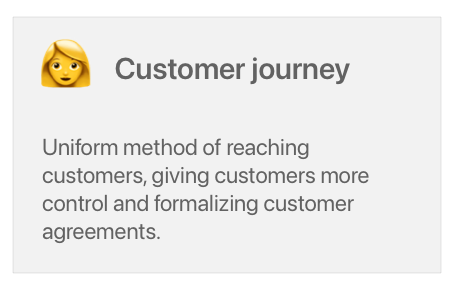
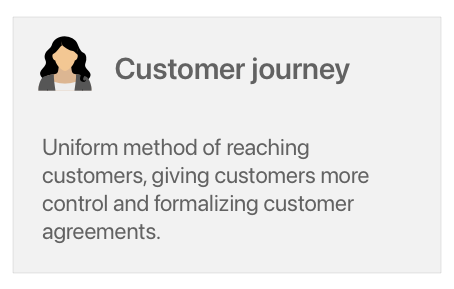
Updating use-case tiles

Changed region(s): [[0.0617, 0.1246, 0.2159, 0.3426]]

diff --git a/use-cases.md b/use-cases.md
@@ -3,8 +3,6 @@ layout: page
 title: Use cases
 permalink: /use-cases
 ---
-# Use cases
-
 ## **Consumer**
 
 [![Consumer use cases - Login][consumer-login-tile]][consumer-login-tile-click]
@@ -17,6 +15,29 @@ permalink: /use-cases
 [consumer-contacts-tile-click]: use-cases#contacts
 [consumer-crypto-tile]: assets/images/use-cases/consumer-crypto-tile.png
 [consumer-crypto-tile-click]: use-cases#crypto
+
+## **Business**
+
+[![Business use cases - Customer journey][business-customer-tile]][business-customer-tile-click]
+[![Business use cases - Identity Access Management][business-iam-tile]][business-iam-tile-click]
+[![Business use cases - Business DeFi][business-defi-tile]][business-defi-tile-click]
+
+[business-customer-tile]: assets/images/use-cases/business-customer-tile.png
+[business-customer-tile-click]: use-cases#customer-journey-management
+[business-iam-tile]: assets/images/use-cases/business-iam-tile.png
+[business-iam-tile-click]: use-cases#identity-access-management
+[business-defi-tile]: assets/images/use-cases/business-defi-tile.png
+[business-defi-tile-click]: use-cases#business-defi
+
+## **Institution**
+
+[![Institution use cases - Credentials][institution-cred-tile]][institution-cred-tile-click]
+[![Institution use cases - Financial transparency][institution-finance-tile]][institution-finance-tile-click]
+
+[institution-cred-tile]: assets/images/use-cases/institution-cred-tile.png
+[institution-cred-tile-click]: use-cases#credentials
+[institution-finance-tile]: assets/images/use-cases/institution-finance-tile.png
+[institution-finance-tile-click]: use-cases#financial-transparency
 
 ## Consumer
 
@@ -257,7 +278,9 @@ Shipping:
 - Managing cash
 - Mergers and acquisitions
 
-#### Business Decentralized Finance (DeFi)
+#### Business DeFi
+
+aka Business Decentralized Finance, or managing a business' assets on-chain.
 
 - Treasury management
 - Employee payments (payroll)
